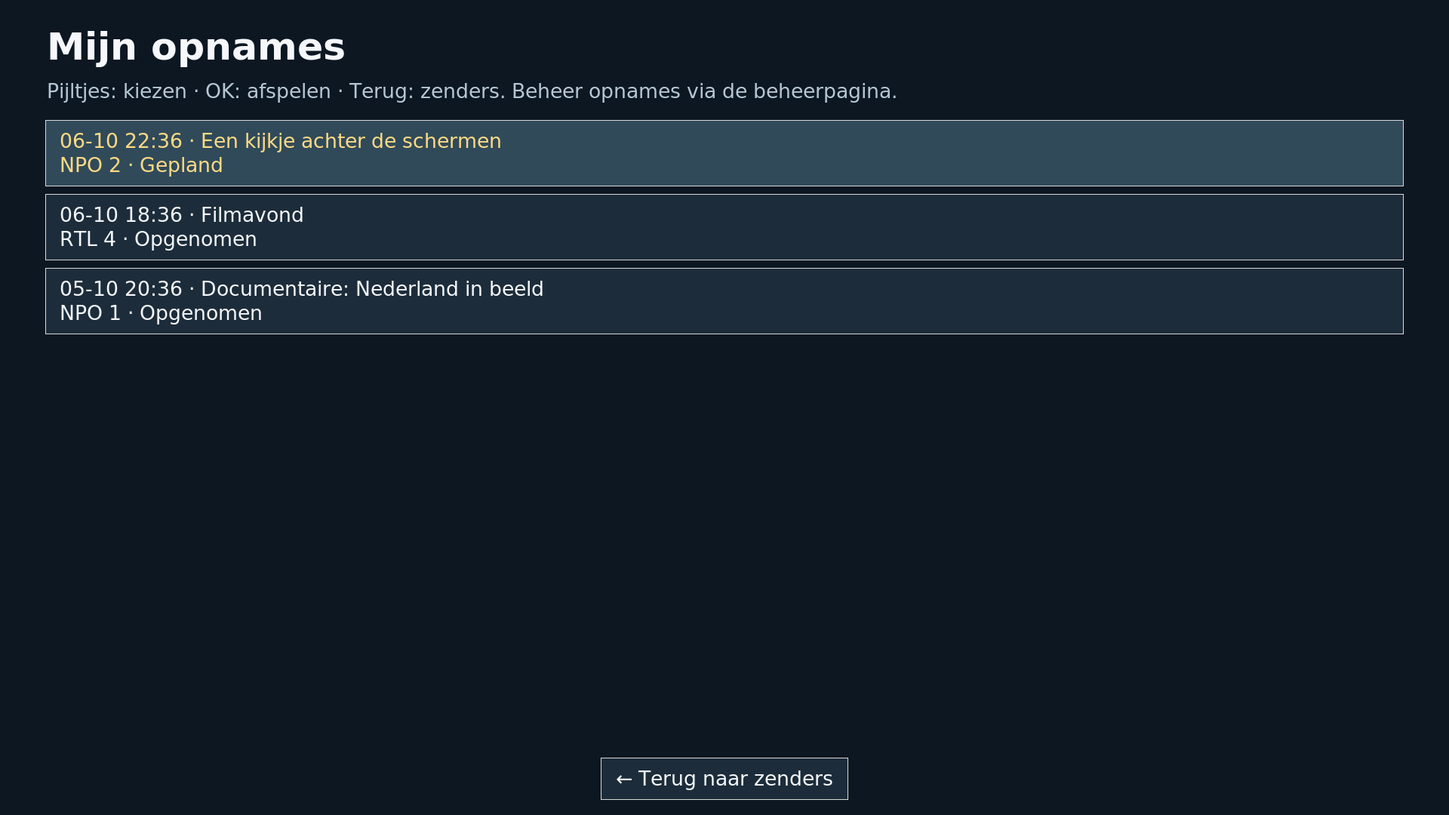
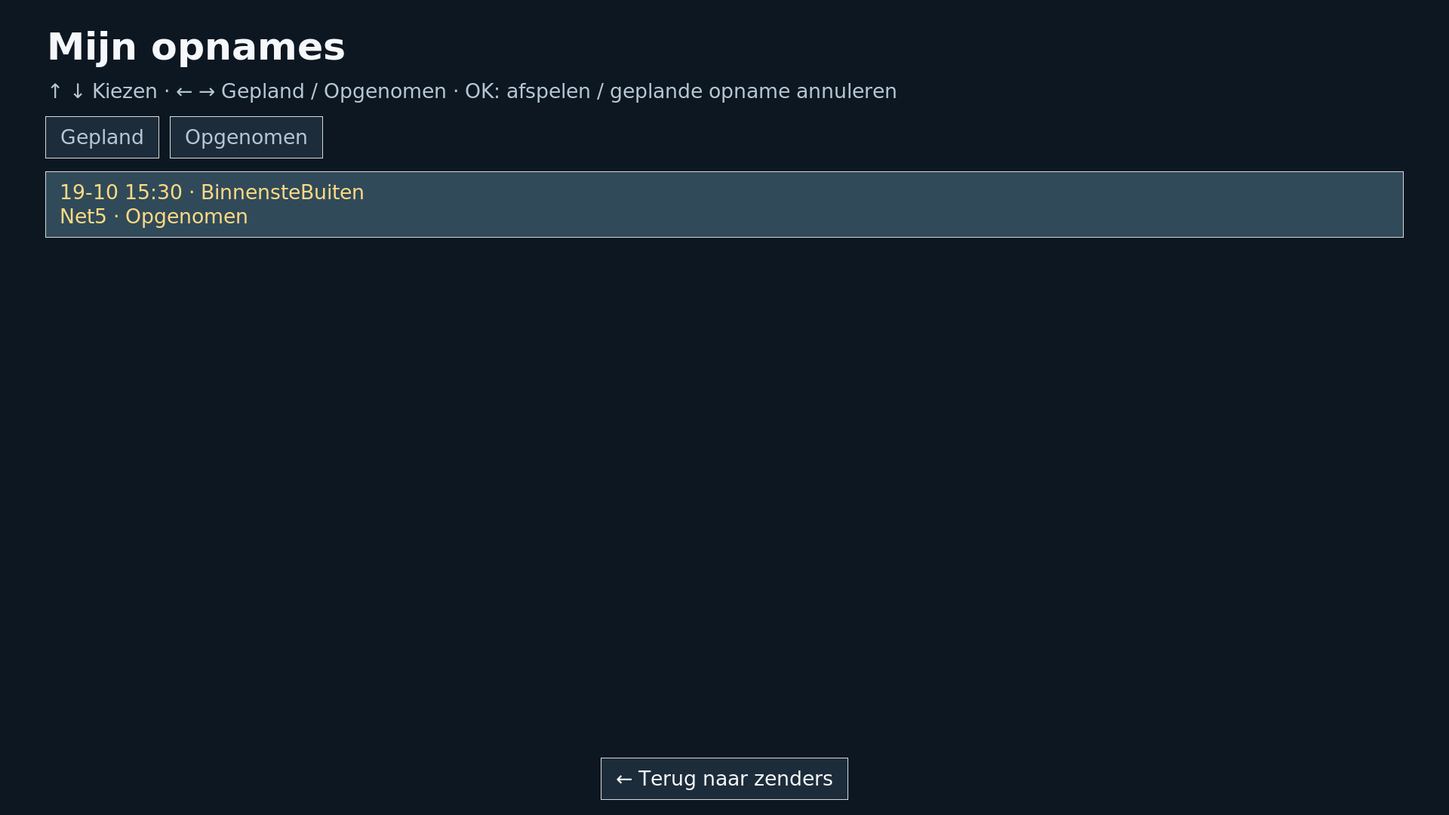
Review full README and refresh all app screenshots

Changed region(s): [[0.0312, 0.0917, 0.9688, 0.3056], [0.0312, 0.3361, 0.375, 0.3972]]

diff --git a/README.md b/README.md
@@ -4,9 +4,29 @@ Een zelfstandige Linux-tv-app met grote zenderknoppen en een aparte webbeheerpag
 
 De app draait zelfstandig met Tk en mpv onder X11. Voor Debian/Ubuntu is een Linux-installatiescript beschikbaar; voor LibreELEC Generic x86_64 is er een aparte [tv-container met Xorg en mpv](deploy/libreelec/README.md). De LibreELEC-versie is getest met HDMI-beeld en -geluid, een USB-afstandsbediening, EPG en opnames. De reguliere Docker-container biedt webbeheer en een browserpreview; live afspelen gebeurt in de zelfstandige tv-app.
 
+## Inhoud
+
+- [Screenshots](#screenshots)
+- [Functies](#functies)
+- [Installatie](#installatie)
+- [Afstandsbediening](#afstandsbediening)
+- [Beheer en gegevens](#beheer-en-gegevens)
+- [IPTV met losse inloggegevens](#iptv-met-losse-inloggegevens)
+- [HDMI-geluid op LibreELEC](#hdmi-geluid-op-libreelec)
+- [Beeldinstellingen](#beeldinstellingen)
+- [Programmagids](#programmagids-epg)
+- [Terugkijken op de tv](#terugkijken-op-de-tv)
+- [Opnemen en opslag](#opnemen-met-de-programmagids)
+- [Importgedrag](#importgedrag)
+- [Streambewaking en diagnose](#streambewaking-en-diagnose)
+- [Automatisch wisselen tussen zenderbronnen](#automatisch-wisselen-tussen-zenderbronnen)
+- [Browserontwerpen](#browserontwerpen)
+- [Ontwikkelen en testen](#ontwikkelen-en-testen)
+- [Project delen](#project-delen)
+
 ## Screenshots
 
-De screenshots tonen de tv-app en het webbeheer. Het scherm Terugkijken toont de native tv-app op 1920×1080 met providerprogrammagegevens; andere beelden bevatten ook voorbeeldprogramma's en opnames. De beschikbare logo's komen uit de zenderlijst; bij ontbrekende logo's blijft de zendernaam zichtbaar. Er staan geen provider-inloggegevens of persoonlijke beheerinstellingen in beeld.
+De screenshots tonen de tv-app en het webbeheer. De tv-beelden zijn opnieuw gemaakt met de huidige native app op 1920×1080; de beheerbeelden tonen de huidige webinterface. Zenders, programma's en opnames zijn voorbeeldgegevens. De beschikbare logo's komen uit de zenderlijst; bij ontbrekende logo's blijft de zendernaam zichtbaar. Er staan geen provider-inloggegevens of persoonlijke beheerinstellingen in beeld.
 
 ### Televisie
 
@@ -28,9 +48,11 @@ Eerdere, lopende en toekomstige uitzendingen staan in één doorlopende lijst vo
 
 ### Opnames terugkijken
 
-Een eenvoudig overzicht van geplande en opgenomen programma's.
+Met links/rechts wissel je tussen **Gepland** en **Opgenomen**. OK annuleert een plan of speelt een bewaard bestand af.
 
-![Opnameoverzicht op de tv](docs/screenshots/tv-opnames.png)
+![Geplande opnames op de tv](docs/screenshots/tv-opnames-gepland.png)
+
+![Opgenomen programma’s op de tv](docs/screenshots/tv-opnames.png)
 
 ### Zenders beheren
 
@@ -38,11 +60,17 @@ Zoek zenders, pas namen aan en sleep favorieten naar de gewenste volgorde.
 
 ![Webbeheer met zenderzoeker en versleepbare favorieten](docs/screenshots/beheer-zenders.png)
 
-### Opnames en opslag beheren
+### Opnames beheren
 
-Stel de opnamemap in, plan via de EPG en beheer bewaarde opnames.
+Plan via de EPG en beheer bewaarde opnames.
 
-![Webbeheer voor opslag, EPG-planning en opnames](docs/screenshots/beheer-opnames.png)
+![Webbeheer voor EPG-planning en opnames](docs/screenshots/beheer-opnames.png)
+
+### Opslag instellen
+
+Kies de map voor nieuwe opnames en controleer de vrije ruimte.
+
+![Webbeheer voor de opnamemap en vrije ruimte](docs/screenshots/beheer-opslag.png)
 
 ## Functies
 
@@ -62,9 +90,17 @@ Stel de opnamemap in, plan via de EPG en beheer bewaarde opnames.
 - Bij ontbrekende programmagids-ID’s bewaart de app bekende favorieten en alternatieve bronnen door zenders binnen dezelfde groep op naam te koppelen. Een gewijzigde kwaliteitsvermelding zoals FHD naar HD mag daarbij verschillen. Dubbelzinnige namen of afwijkende programmagids-ID’s worden niet automatisch gekoppeld; opgeslagen voorkeursbronnen blijven behouden.
 - Standaard uitgebreide M3U-lijsten met `#EXTINF`, HTTP(S), RTSP, RTMP en UDP. Kodi-stijl HTTP-headers na `|` worden doorgegeven aan mpv. Terugkijken ondersteunt het Xtream Codes-providerarchief wanneer het abonnement en de zender dit aanbieden. DRM, andere catch-upformaten en aanbieder-specifieke loginflows worden niet ondersteund.
 
-## Installatie op de tv-pc
+## Installatie
 
-### Lokaal testen met Docker
+Kies de installatie die bij je apparaat hoort:
+
+| Omgeving | Installatie | Video afspelen |
+| --- | --- | --- |
+| LibreELEC Generic x86_64 | [Tv-container met eigen Xorg](deploy/libreelec/README.md) | Native tv-app met mpv via HDMI |
+| Debian/Ubuntu met X11-desktop | Onderstaand Linux-installatiescript | Native tv-app met mpv |
+| Docker op een ontwikkelcomputer of server | Onderstaande Compose-configuratie | Webbeheer en browserpreview |
+
+### Webbeheer en browserpreview met Docker
 
 ```sh
 docker compose up -d --build --wait
@@ -82,18 +118,20 @@ Een Docker-beheerwachtwoord wijzigen: `docker compose stop app`, daarna `docker 
 Gebruik Debian/Ubuntu met een lichte desktop, bijvoorbeeld XFCE, en een **X11/Xorg-sessie**. De speler wordt ingebed met een X11-venster-ID; native Wayland is niet het ondersteunde pad. Zie de [mpv-documentatie](https://mpv.io/manual/stable/#options-wid).
 
 ```sh
-git clone <URL-VAN-JE-REPOSITORY>
+git clone https://github.com/MrHymanz/IPTV-thuis.git
 cd IPTV-thuis
 sh tools/install-linux.sh
 ~/.local/bin/iptv-thuis
 ```
 
-Het script installeert `python3-tk`, `mpv` en lettertypen met sudo, kopieert de app naar de gebruikersmap en maakt een desktop-autostart-item. Voer het uit als de tv-gebruiker. Stel **automatisch aanmelden** voor die gebruiker in via de desktopinstellingen. Schakel daar ook schermvergrendeling en automatisch slapen uit. Daarna opent de app bij het aanmelden op volledig scherm het zenderoverzicht. De app verandert geen aanmeldinstellingen of schijven.
+Het script installeert Python, Tk, Pillow, mpv en lettertypen met sudo, kopieert de app naar de gebruikersmap en maakt een desktop-autostart-item. Voer het uit als de tv-gebruiker. Stel **automatisch aanmelden** voor die gebruiker in via de desktopinstellingen. Schakel daar ook schermvergrendeling en automatisch slapen uit. Daarna opent de app bij het aanmelden op volledig scherm het zenderoverzicht. De app verandert geen aanmeldinstellingen of schijven.
+
+Voor opnemen is ook FFmpeg nodig: installeer dat op Debian/Ubuntu met `sudo apt-get install ffmpeg`. De LibreELEC-tv-container bevat FFmpeg al.
 
 Handmatig starten zonder installatiescript:
 
 ```sh
-sudo apt-get install python3 python3-tk python3-pil python3-pil.imagetk mpv fonts-dejavu-core
+sudo apt-get install python3 python3-tk python3-pil python3-pil.imagetk mpv ffmpeg fonts-dejavu-core
 python3 -m mijntv
 ```
 
@@ -103,23 +141,28 @@ Het tv-scherm toont rechtsboven een schijficoon met de vrije ruimte van de inges
 
 ## Afstandsbediening
 
-| Knop/toets | Zenderoverzicht | Tijdens kijken |
+| Knop/toets | Zenderoverzicht | Tijdens live kijken |
 | --- | --- | --- |
-| Pijltjes | Zender kiezen | Volgende/vorige favoriet |
-| OK / Enter / spatie | Zender starten | Zendernaam tonen |
+| Pijltjes | Zender kiezen; links vanuit de eerste kolom opent het menu | Rechts/omhoog: volgende favoriet; links/omlaag: vorige |
+| OK / Enter / spatie | Zender starten | Zendernaam en programmagegevens tonen |
+| Menu / F2 / O | Zijmenu openen of sluiten | Zijmenu openen of sluiten |
 | CH+ / PageDown | Volgende pagina | Vorige favoriet |
 | CH− / PageUp | Vorige pagina | Volgende favoriet |
 | Terug / Escape / Backspace | In overzicht blijven | Stoppen en zenderlijst openen |
 | F11 | Volledig scherm wisselen | Volledig scherm wisselen |
 | Ctrl+Q | App afsluiten | App afsluiten |
 
+In de zijbalk sluit **links** het menu. In **Terugkijken** bladert omhoog/omlaag door programma’s en voert OK de getoonde actie uit. Tijdens het afspelen van een opgeslagen opname of archiefuitzending zijn links/rechts de spoelknoppen en pauzeert OK; zie [Terugkijken op de tv](#terugkijken-op-de-tv).
+
 Een USB 2,4GHz-ontvanger die zich als toetsenbord presenteert kan deze toetsen rechtstreeks sturen. CH-knoppen kunnen andere codes sturen; controleer ze op de tv-pc met bijvoorbeeld `xev` en pas indien nodig `TV.key` in `mijntv/tv.py` aan. Volume + en − (XF86AudioRaiseVolume/XF86AudioLowerVolume) wijzigen het spelervolume met 5%, met een korte melding in beeld. De instelling blijft bewaard bij zappen en herstart. De mute-knop schakelt het geluid uit of aan; volume aanpassen heft mute op. Het volume van de tv zelf blijft apart instelbaar.
 
 ## Beheer en gegevens
 
+De beheerpagina is verdeeld in zes openklapbare onderdelen: IPTV-gegevens, Zenders en favorieten, Beeldinstellingen, Opnames, Opslag en Opnameaccount. Er staat één onderdeel tegelijk open; de browser onthoudt de laatst geopende sectie. Lange zender- en opnamelijsten hebben een eigen scrollvak. Bij het slepen van favorieten scrollt de lijst mee.
+
 De beheerbackend gebruikt alleen de Python-standaardbibliotheek. De tv-interface gebruikt Tk en Pillow voor zenderlogo’s; het Linux-installatiescript en de LibreELEC-tv-container installeren die onderdelen. Standaard staat alle configuratie in `~/.local/share/iptv-thuis/`, buiten de repository:
 
-- `mijntv.db`: zenders, streamadressen, favorieten en het opgeslagen M3U-adres.
+- `mijntv.db`: zenders, streamadressen, favorieten, providerinstellingen, EPG, archiefmetadata en opnameplanning.
 - `admin.json`: gezouten PBKDF2-hash van het beheerwachtwoord.
 - `first-login.txt`: eerste wachtwoord om na een onbeheerde herstart te kunnen inloggen. Bewaar het in je wachtwoordmanager en verwijder dit bestand daarna desgewenst. De app toont dit wachtwoord alleen zolang er geen favorieten zijn.
 
@@ -151,13 +194,17 @@ De tv-container kiest automatisch het HDMI-audioapparaat waaraan ALSA de aangesl
 
 ## Beeldinstellingen
 
-In het webbeheer onder **Beeldinstellingen** kies je automatisch, 720p, 1080p of 4K UHD (3840×2160). De zelfstandige X11-app biedt alleen resoluties aan die het aangesloten scherm meldt. De verversingssnelheid wordt door Xorg gekozen; op de AOpen DE7200 is 4K via deze HDMI-aansluiting maximaal 30 Hz. Opslaan stopt een lopende uitzending en heropent het zenderoverzicht binnen enkele seconden. De keuze blijft bewaard na herstart. Een opname van het geteste [4K-scherm](docs/tv-4k.png) staat in de documentatie. Als een ander scherm de ingestelde resolutie niet ondersteunt, blijft het huidige beeld behouden.
+In het webbeheer onder **Beeldinstellingen** kies je automatisch, 720p, 1080p of 4K UHD (3840×2160). De zelfstandige X11-app biedt alleen resoluties aan die het aangesloten scherm meldt. Je kunt ook een ondersteunde verversingssnelheid kiezen; **Automatisch** volgt de schermvoorkeur. Op de AOpen DE7200 is 4K via deze HDMI-aansluiting maximaal 30 Hz. Opslaan stopt een lopende uitzending en heropent het zenderoverzicht binnen enkele seconden. De keuze blijft bewaard na herstart. Als een ander scherm de ingestelde resolutie niet ondersteunt, blijft het huidige beeld behouden.
 
 Met **Beeldmarge** (0–10% aan elke rand) plaats je de hele interface en video verder van de tv-randen. Dit helpt bij overscan. De tv-instelling voor volledig beeld, vaak ‘Just Scan’, ‘Screen Fit’ of ‘1:1’, kan de afgesneden randen ook verhelpen. De Docker-browserpreview verandert geen HDMI-resolutie: instellingen daar gelden voor een zelfstandige app die dezelfde gegevensmap gebruikt. Voor LibreELEC stel je dit in op de beheerpagina van de mediacenter-pc zelf.
 
+In Beeldinstellingen kies je automatische hardwaredecodering of softwaredecodering en kun je de kleine FPS-teller linksboven aan- of uitzetten. Deze voorkeuren worden opgeslagen en gelden ook na herstarten. De teller toont de geschatte videoframerate uit de videotimestamps, de schermfrequentie in Hz en het cumulatieve aantal door de uitvoer overgeslagen frames sinds het laden van de stream. De videoframerate is geen directe meting van het aantal fysiek getoonde frames.
+
+Beeldinstellingen bewaren ook de verversingssnelheid (Hz). Kies bijvoorbeeld 1080p met 50 Hz voor video van 25/50 fps. Alleen combinaties die het aangesloten scherm aanbiedt zijn selecteerbaar. Bij een vaste Hz kies je een vaste resolutie; Automatisch volgt de voorkeur van het scherm. Een na herstart niet meer ondersteunde combinatie laat het bestaande schermsignaal behouden en geeft een melding in beheer.
+
 ## Programmagids (EPG)
 
-Bij Xtream Codes-inloggegevens haalt de app automatisch de XMLTV-gids van de aanbieder op, bij de eerste start en daarna elke vier uur. In het zenderoverzicht zie je **Nu** en **Straks** voor de geselecteerde zender. Tijdens kijken verschijnt dezelfde informatie bij zappen of een druk op OK. De tijden volgen de lokale tijdzone van de tv-pc.
+Bij Xtream Codes-inloggegevens haalt de app automatisch de XMLTV-gids van de aanbieder op, na de opstartwachttijd en daarna elke vier uur. In het zenderoverzicht zie je **Nu** en **Straks** voor de geselecteerde zender. Tijdens kijken verschijnt dezelfde informatie bij zappen of een druk op OK. De tijden in het zenderoverzicht volgen de lokale tijdzone van de tv-pc. Stel die voor gebruik in Nederland in op `Europe/Amsterdam`.
 
 Via **Programmagids vernieuwen** in het webbeheer kun je direct opnieuw ophalen. Alleen programma’s van de favorieten worden lokaal opgeslagen; koppeling gebeurt op de `tvg-id` uit de playlist, zodat hernoemen blijft werken. Wijzigingen in de favorieten worden automatisch meegenomen. Ontbrekende programmagegevens worden aangegeven zonder het afspelen te blokkeren. Bij een mislukte download blijft de vorige gids bewaard. XMLTV en gecomprimeerde XMLTV worden ondersteund, met een limiet van 512 MB na uitpakken. De app gebruikt de opgeslagen providergegevens; er zijn geen extra inlogvelden nodig.
 
@@ -181,9 +228,27 @@ Tijdens archiefweergave en het afspelen van een opname pauzeert OK. Eén druk op
 
 De app gebruikt de opgeslagen Xtream Codes-inloggegevens voor het providerarchief en aanvullende programmagegevens. Een alleen geüpload M3U-bestand levert deze API-gegevens niet. Beschikbaarheid en archiefduur verschillen per abonnement en zender. De controle van 19 oktober 2026 vond bij het geteste abonnement 70 Nederlandse bronvarianten met drie dagen archief; dit is geen vaste garantie voor iedere zender of provider. Zie de [providercontrole](docs/catchup-controle.md).
 
-Als de favoriete livebron geen archief aanbiedt, zoekt de app een passende archiefvariant van die zender. De opgeslagen voorkeur voor live kijken blijft behouden. Programmagegevens worden op de achtergrond opgehaald en lokaal bewaard; bij een providerstoring blijven beschikbare opgeslagen gegevens en de lokale EPG bruikbaar. Ontbrekende omschrijvingen blokkeren de bediening niet. De nieuwe gids toont tijden in de Nederlandse tijdzone (`Europe/Amsterdam`).
+Als de favoriete livebron geen archief aanbiedt, zoekt de app een passende archiefvariant van die zender. De opgeslagen voorkeur voor live kijken blijft behouden. Programmagegevens worden op de achtergrond opgehaald en lokaal bewaard; bij een providerstoring blijven beschikbare opgeslagen gegevens en de lokale EPG bruikbaar. Ontbrekende omschrijvingen blokkeren de bediening niet. De gids Terugkijken toont tijden in de Nederlandse tijdzone (`Europe/Amsterdam`).
 
 Bij opnemen via het kijkaccount heeft de opname voorrang. Archiefweergave is geblokkeerd zolang die opname loopt. Begint een geplande opname tijdens archiefweergave, dan stopt eerst de archiefstream zodat de recorder de providerverbinding kan gebruiken. Met een afzonderlijk opnameaccount kan de archiefweergave doorgaan. Een providerarchief is geen lokale opname: alleen zelf opgenomen bestanden blijven na het verlopen van het archief beschikbaar.
+
+## Opnemen met de programmagids
+
+Open op de **mediacenter-pc** `/admin`, openklapbaar onderdeel **Opslag**. De standaardmap op LibreELEC is `/storage/iptv-thuis/recordings`. Je kunt een andere schrijfbare map onder `/storage` of op een aangekoppelde schijf onder `/var/media/<schijf>` kiezen. De bovenliggende map moet bestaan. Een NAS kan ook worden gebruikt wanneer deze vooraf op de host is aangekoppeld en in de container beschikbaar is. De app koppelt geen netwerkschijven aan. Een verdwenen externe schijf geeft een fout; de app schrijft dan niet naar het achtergebleven lege aankoppelpunt.
+
+Het schijficoon op de tv en de browserpreview toont de vrije ruimte van de ingestelde opnamemap. Een gewijzigde locatie geldt voor nieuwe opnames: bestaande bestanden en reeds geplande opnames houden hun oorspronkelijke map. Er wordt niets automatisch verplaatst. De Docker-testserver heeft zijn eigen opslag en instellingen. Standaard gebruikt deze `/data/recordings` in het bestaande gegevensvolume. Voor een andere Docker-opslag voeg je een schrijfbare bind mount toe aan `compose.yaml`, bijvoorbeeld `- /srv/tv-recordings:/recordings`; geef UID 10001 schrijfrechten en stel `/recordings` in via beheer.
+
+Kies in het beheer een favoriete zender en open de programmagids. **Opnemen** plant de opname vanaf de begintijd van het EPG-programma tot vijf minuten na de eindtijd. Bij een lopend programma wordt alleen het resterende deel opgenomen; er is geen terugkijkbuffer. **Huidig programma opnemen** gebruikt de eindtijd uit de EPG, of neemt één uur op wanneer programmagegevens ontbreken. Eén opname tegelijk: overlappende plannen worden geweigerd. De pc moet aan blijven. Geplande opnames blijven in SQLite bewaard, starten ook na een herstart wanneer het programma nog loopt, en krijgen een foutstatus wanneer het volledige tijdvak is gemist. Een tijdens herstart actieve opname krijgt de status Onderbroken; het gedeeltelijke bestand blijft bewaard, maar wordt niet automatisch hervat.
+
+Op de tv opent **Menu** (of F2/O) het zijmenu. Vanuit de eerste kolom van de zenderlijst opent **links** dit ook. Kies **Zenders**, **Opnames** of **Terugkijken** met omhoog/omlaag en OK. **Links**, **Terug** of opnieuw **Menu** sluit de zijbalk met behoud van zender en pagina. Tijdens afspelen blijft de video doorlopen zolang je alleen de zijbalk opent. Zie [Terugkijken op de tv](#terugkijken-op-de-tv) voor opnemen en afspelen met de OK-knop. Via beheer kun je plannen annuleren, lopende opnames stoppen, bestanden downloaden en oude opnames definitief verwijderen. Op een toetsenbord blijft R als extra opnamesneltoets beschikbaar.
+
+Zonder apart opnameaccount blijft een opname vast op de gekozen zender. Bij zappen verschijnt **Blijven kijken / Opname stoppen en zappen**, met Blijven kijken als veilige standaard. Het opgenomen deel blijft na stoppen bewaard. Vanuit het homescherm blijft de opname doorlopen; dezelfde zender opnieuw bekijken deelt weer de bestaande verbinding. Als een geplande opname begint terwijl je een andere zender kijkt, schakelt de speler naar de opnamezender en toont een melding. De speler start tijdens een gedeelde opname geen onafhankelijke bronwissel; bij opnameherstel volgen speler en recorder samen de nieuwe bron.
+
+In **Opnameaccount** kun je een tweede M3U-adres of afzonderlijke Xtream-inloggegevens opslaan. De opname gebruikt dan het tweede account en je kunt vrij zappen met het kijkaccount. Een tweede URL van hetzelfde account telt niet als extra verbinding. Zenders worden op programmagids-ID en unieke naam binnen dezelfde groep gekoppeld; een ontbrekende of dubbelzinnige opnamebron geeft een fout en valt nooit stilzwijgend terug op het kijkaccount. Voeg eerst favorieten toe en ververs de opname-ingang na het toevoegen van favorieten uit nieuwe groepen. De opname-ingang wordt verder iedere zes uur op de achtergrond vernieuwd, na de opstartwachttijd; mislukte updates behouden de vorige lijst. Er blijft maximaal één opname tegelijk mogelijk.
+
+De recorder gebruikt FFmpeg met `-c copy`: video en audio worden zonder hercodering in een `.ts`-bestand opgeslagen, met een lage CPU-belasting. Elke nieuwe opname krijgt vijf minuten uitloop na de eindtijd, ook bij handmatige opnames. De begintijd blijft gelijk; de opnamelijst toont de eindtijd inclusief uitloop. Herstelde delen behouden diezelfde eindtijd en krijgen niet opnieuw vijf minuten extra. De conflictcontrole telt de uitloop mee, omdat er één opname tegelijk mogelijk is. De planner controleert elke twee seconden de opslag. Bij minder dan 512 MiB vrije ruimte stopt de opname met een foutstatus; gedeeltelijke bestanden blijven beschikbaar. Bij een vroegtijdig gesloten stream blijft het bestand behouden en hervat de recorder automatisch in een volgend deel, met oplopende wachttijd en maximaal vijf herstelpogingen per tien minuten. Bij een weggevallen gedeelde bron kan ook een andere gekoppelde bron worden gebruikt; speler en recorder delen de herstelde verbinding. De opname blijft tijdens herstel tegen onbedoeld zappen beschermd. Bij bewust stoppen, volle of verdwenen opslag en het bereiken van de eindtijd wordt niet automatisch hervat. Via het webbeheer kun je een onderbroken of mislukte opname handmatig hervatten zolang het programma nog loopt. HTTP(S)-streams worden ondersteund. De lokale tv-speler en recorder delen één inkomende providerverbinding via een uitsluitend op loopback bereikbare streamverdeler. Interface-elementen, EPG-meldingen en waarschuwingen worden niet opgenomen. HLS wordt zo nodig zonder hercodering naar MPEG-TS omgezet; HLS met aanvullende M3U-headeropties wordt nog niet ondersteund. EPG-tijden komen van je provider en kunnen afwijken van de uitzending.
+
+Streamadressen staan niet in opname-API-antwoorden, logs of FFmpeg-procesargumenten. FFmpeg leest het adres uit een tijdelijk manifest met rechten 0600, dat na afloop wordt verwijderd. Deel geen gegevensvolume of opnames wanneer je alleen de broncode wilt delen. Bronarchieven bevatten uitsluitend door Git gevolgde projectbestanden.
 
 ## Importgedrag
 
@@ -192,46 +257,6 @@ Zenderidentiteit wordt afgeleid van `tvg-id`, oorspronkelijke naam, groep en het
 Playlists mogen maximaal **512 MB** zijn, zowel via een download als een bestandsupload. Downloads en uploads worden in blokken naar een tijdelijk bestand in de gegevensmap geschreven en vervolgens regel voor regel in SQLite verwerkt. De volledige playlist en zendercatalogus worden niet tegelijk in het geheugen geladen. Het tijdelijke bestand wordt ook bij fouten opgeruimd; zorg dat de gegevensmap voldoende vrije schijfruimte heeft voor de playlist en database.
 
 Een ongeldige, onderbroken of mislukte import laat de oude lijst intact. Bij starten worden achtergelaten tijdelijke importtabellen op de achtergrond opgeruimd voordat een nieuwe automatische import begint. De import houdt één schrijvende databaseverbinding open, met 32 MB SQLite-cache en commits per duizend zenders. De unieke zender-ID-index wordt na het inlezen in één keer opgebouwd. Dit beperkt willekeurige schijfbewerkingen en voorkomt herhaalde WAL-checkpoints bij het sluiten van elke batch op een mechanische schijf. Alleen de vervangbare import en opruiming gebruiken SQLite `synchronous=NORMAL`; bewerkingen van favorieten behouden de standaard synchronisatie. De nieuwe catalogus wordt in een aparte tabel opgebouwd met korte transacties per duizend zenders. Favorieten blijven daardoor tijdens grote imports te bewerken. Pas na volledige verwerking wordt de catalogus in één transactie omgewisseld. Zoekresultaten worden per honderd opgehaald, zodat de beheerpagina niet alle zenders tegelijk hoeft te tekenen. Handmatige streams blijven bij import bestaan.
-
-## Ontwikkelen en testen
-
-```sh
-python3 -m unittest discover -s tests -v
-python3 -m compileall -q mijntv tools tests
-sh -n tools/install-linux.sh
-python3 tools/build.py
-```
-
-De native schermtests vereisen X11 (of Xvfb) en tkinter; de videoproeven gebruiken ook mpv en ffmpeg. Zonder die omgeving worden de bijbehorende tests overgeslagen. De gidscontroles testen onder meer Full HD-indeling, stabiele beschrijvingen, navigatie, opnemen via OK en opnamevoorrang. Een afbeelding van het geteste tv-scherm staat in `docs/tv-scherm.png`.
-
-Het bouwscript maakt `dist/IPTV-thuis-0.1.0.zip` met bronbestanden, documentatie, tests en de klikbare mockup. `index.html` is die mockup, geen browser-speler van de echte M3U. Hij ondersteunt ook direct zappen op het voorbeeldscherm.
-
-Controleer voor dagelijks gebruik op de tv-pc: koude boot, HDMI-geluid, vijf echte streams, herhaald zappen, Terug, alle afstandsbedieningsknoppen, netwerkverlies en herstel, en beheer vanaf een tweede apparaat.
-
-## Project delen
-
-Gebruik de broncode uit Git of het archief uit `python3 tools/build.py`. Het archief bevat uitsluitend de door Git bijgehouden projectbestanden, zonder `.git`, lokale instellingen of Git-remotes. Lokale databases, playlists, beheerwachtwoorden en SSH-sleutels worden uitgesloten met `.gitignore`. De tests gebruiken fictieve inloggegevens en voorbeeldadressen. De screenshots tonen alleen de interface en zenderlogo’s.
-
-De Docker-volumes en de gegevensmap van de tv-pc bevatten wel de echte providergegevens en beheerconfiguratie; deel die niet mee als broncode. `.gitignore` verwijdert niets dat eerder gecommit is, en beschermt niet tegen geheimen die je in een bronbestand schrijft. De Git-geschiedenis kan nog een oud lokaal repository-adres bevatten. Het bronarchief bevat die geschiedenis niet.
-
-
-## Opnemen met de programmagids
-
-Open op de **mediacenter-pc** `/admin`, openklapbaar onderdeel **Opslag**. De standaardmap op LibreELEC is `/storage/iptv-thuis/recordings`. Je kunt een andere schrijfbare map onder `/storage` of op een aangekoppelde schijf onder `/var/media/<schijf>` kiezen. De bovenliggende map moet bestaan. Een NAS kan ook worden gebruikt wanneer deze vooraf op de host is aangekoppeld en in de container beschikbaar is. De app koppelt geen netwerkschijven aan. Een verdwenen externe schijf geeft een fout; de app schrijft dan niet naar het achtergebleven lege aankoppelpunt.
-
-Het schijficoon op de tv en de browserpreview toont de vrije ruimte van de ingestelde opnamemap. Een gewijzigde locatie geldt voor nieuwe opnames: bestaande bestanden en reeds geplande opnames houden hun oorspronkelijke map. Er wordt niets automatisch verplaatst. De Docker-testserver heeft zijn eigen opslag en instellingen. Standaard gebruikt deze `/data/recordings` in het bestaande gegevensvolume. Voor een andere Docker-opslag voeg je een schrijfbare bind mount toe aan `compose.yaml`, bijvoorbeeld `- /srv/tv-recordings:/recordings`; geef UID 10001 schrijfrechten en stel `/recordings` in via beheer.
-
-Kies in het beheer een favoriete zender en open de programmagids. **Opnemen** plant precies de begin- en eindtijd van het EPG-programma. Bij een lopend programma wordt alleen het resterende deel opgenomen; er is geen terugkijkbuffer. **Huidig programma opnemen** gebruikt de eindtijd uit de EPG, of neemt één uur op wanneer programmagegevens ontbreken. Eén opname tegelijk: overlappende plannen worden geweigerd. De pc moet aan blijven. Geplande opnames blijven in SQLite bewaard, starten ook na een herstart wanneer het programma nog loopt, en krijgen een foutstatus wanneer het volledige tijdvak is gemist. Een tijdens herstart actieve opname krijgt de status Onderbroken; het gedeeltelijke bestand blijft bewaard, maar wordt niet automatisch hervat.
-
-Op de tv opent **Menu** (of F2/O) het zijmenu. Vanuit de eerste kolom van de zenderlijst opent **links** dit ook. Kies **Zenders**, **Opnames** of **Terugkijken** met omhoog/omlaag en OK. **Links**, **Terug** of opnieuw **Menu** sluit de zijbalk met behoud van zender en pagina. Tijdens afspelen blijft de video doorlopen zolang je alleen de zijbalk opent. Zie [Terugkijken op de tv](#terugkijken-op-de-tv) voor opnemen en afspelen met de OK-knop. Via beheer kun je plannen annuleren, lopende opnames stoppen, bestanden downloaden en oude opnames definitief verwijderen. Op een toetsenbord blijft R als extra opnamesneltoets beschikbaar.
-
-Zonder apart opnameaccount blijft een opname vast op de gekozen zender. Bij zappen verschijnt **Blijven kijken / Opname stoppen en zappen**, met Blijven kijken als veilige standaard. Het opgenomen deel blijft na stoppen bewaard. Vanuit het homescherm blijft de opname doorlopen; dezelfde zender opnieuw bekijken deelt weer de bestaande verbinding. Als een geplande opname begint terwijl je een andere zender kijkt, schakelt de speler naar de opnamezender en toont een melding. De speler start tijdens een gedeelde opname geen onafhankelijke bronwissel; bij opnameherstel volgen speler en recorder samen de nieuwe bron.
-
-In **Opnameaccount** kun je een tweede M3U-adres of afzonderlijke Xtream-inloggegevens opslaan. De opname gebruikt dan het tweede account en je kunt vrij zappen met het kijkaccount. Een tweede URL van hetzelfde account telt niet als extra verbinding. Zenders worden op programmagids-ID en unieke naam binnen dezelfde groep gekoppeld; een ontbrekende of dubbelzinnige opnamebron geeft een fout en valt nooit stilzwijgend terug op het kijkaccount. Voeg eerst favorieten toe en ververs de opname-ingang na het toevoegen van favorieten uit nieuwe groepen. De opname-ingang wordt verder iedere zes uur op de achtergrond vernieuwd, na de opstartwachttijd; mislukte updates behouden de vorige lijst. Er blijft maximaal één opname tegelijk mogelijk.
-
-De recorder gebruikt FFmpeg met `-c copy`: video en audio worden zonder hercodering in een `.ts`-bestand opgeslagen, met een lage CPU-belasting. Elke nieuwe opname krijgt vijf minuten uitloop na de eindtijd, ook bij handmatige opnames. De begintijd blijft gelijk; de opnamelijst toont de eindtijd inclusief uitloop. Herstelde delen behouden diezelfde eindtijd en krijgen niet opnieuw vijf minuten extra. De conflictcontrole telt de uitloop mee, omdat er één opname tegelijk mogelijk is. De planner controleert elke twee seconden de opslag. Bij minder dan 512 MiB vrije ruimte stopt de opname met een foutstatus; gedeeltelijke bestanden blijven beschikbaar. Bij een vroegtijdig gesloten stream blijft het bestand behouden en hervat de recorder automatisch in een volgend deel, met oplopende wachttijd en maximaal vijf herstelpogingen per tien minuten. Bij een weggevallen gedeelde bron kan ook een andere gekoppelde bron worden gebruikt; speler en recorder delen de herstelde verbinding. De opname blijft tijdens herstel tegen onbedoeld zappen beschermd. Bij bewust stoppen, volle of verdwenen opslag en het bereiken van de eindtijd wordt niet automatisch hervat. Vanuit Opnames kun je een onderbroken of mislukte opname ook handmatig hervatten zolang het programma nog loopt. HTTP(S)-streams worden ondersteund. De lokale tv-speler en recorder delen één inkomende providerverbinding via een uitsluitend op loopback bereikbare streamverdeler. Interface-elementen, EPG-meldingen en waarschuwingen worden niet opgenomen. HLS wordt zo nodig zonder hercodering naar MPEG-TS omgezet; HLS met aanvullende M3U-headeropties wordt nog niet ondersteund. EPG-tijden komen van je provider en kunnen afwijken van de uitzending.
-
-Streamadressen staan niet in opname-API-antwoorden, logs of FFmpeg-procesargumenten. FFmpeg leest het adres uit een tijdelijk manifest met rechten 0600, dat na afloop wordt verwijderd. Deel geen gegevensvolume of opnames wanneer je alleen de broncode wilt delen. Bronarchieven bevatten uitsluitend door Git gevolgde projectbestanden.
 
 ## Streambewaking en diagnose
 
@@ -251,18 +276,35 @@ Live tv controleert iedere tien seconden een gedecodeerd videoframe met Pillow (
 
 Bij snel achter elkaar zappen verandert de geselecteerde zender direct. Pas na 350 ms zonder nieuwe zapdruk wordt de laatst gekozen stream geladen. Het opstarten van mpv gebeurt op de achtergrond, zodat de bediening tijdens het verbinden beschikbaar blijft. Tussentijdse zenders worden niet gestart en oude laadtimeouts worden bij een nieuwe keuze ingetrokken.
 
-In Beeldinstellingen kies je automatische hardwaredecodering of softwaredecodering en kun je de kleine FPS-teller linksboven aan- of uitzetten. Deze voorkeuren worden opgeslagen en gelden ook na herstarten. De teller toont de geschatte videoframerate uit de videotimestamps, de schermfrequentie in Hz en het cumulatieve aantal door de uitvoer overgeslagen frames sinds het laden van de stream. De videoframerate is geen directe meting van het aantal fysiek getoonde frames.
-
-Beeldinstellingen bewaren ook de verversingssnelheid (Hz). Kies bijvoorbeeld 1080p met 50 Hz voor video van 25/50 fps. Alleen combinaties die het aangesloten scherm aanbiedt zijn selecteerbaar. Bij een vaste Hz kies je een vaste resolutie; Automatisch volgt de voorkeur van het scherm. Een na herstart niet meer ondersteunde combinatie laat het bestaande schermsignaal behouden en geeft een melding in beheer.
-
 Na het starten van de app wachten automatische EPG-updates, zenderlijstupdates en catalogusonderhoud drie minuten. De bestaande lijst en gids blijven direct bruikbaar. De EPG-controle zoekt alleen de opgeslagen favorieten op; een groepenindex voorkomt volledige tabelscans in webbeheer. De index voor een bestaande catalogus wordt pas na die wachttijd aangelegd en blijft bewaard. Handmatig vernieuwen via beheer blijft direct mogelijk.
 
-De beheerpagina is verdeeld in zes openklapbare onderdelen: IPTV-gegevens, Zenders en favorieten, Beeldinstellingen, Opnames, Opslag en Opnameaccount. Er staat één onderdeel tegelijk open; de browser onthoudt de laatst geopende sectie. Lange zender- en opnamelijsten hebben een eigen scrollvak. Bij het slepen van favorieten scrollt de lijst mee.
+## Browserontwerpen
 
 ### Mobiele frontend-mockup
 
-Open `/mobile` op het beheeradres, bijvoorbeeld `http://192.168.1.40:8090/mobile`, in Safari op je iPhone. Log in met je bestaande beheeraccount. De mobiele mockup heeft een startscherm, doorzoekbare zenders, opnames, een programmagids en een gesimuleerde speler. De inhoud is voorbeelddata; plannen en afspelen wijzigen geen echte opnames. De speler springt 15 seconden per tik en bij langer vasthouden maximaal 30 seconden per stap. De pagina ondersteunt de veilige schermranden van de iPhone en werkt ook op desktop.
+Open `/mobile` op het beheeradres, bijvoorbeeld `http://IP-VAN-DOCKER-HOST:8090/mobile`, in Safari op je iPhone. Log in met je bestaande beheeraccount. De mobiele mockup heeft een startscherm, doorzoekbare zenders, opnames, een programmagids en een gesimuleerde speler. De inhoud is voorbeelddata; plannen en afspelen wijzigen geen echte opnames. De speler springt 15 seconden per tik en bij langer vasthouden maximaal 30 seconden per stap. De pagina ondersteunt de veilige schermranden van de iPhone en werkt ook op desktop.
 
 ### Catch-upmockup in de browser
 
 Open `/catchup` op het beheeradres voor het interactieve browserontwerp. Dit voorbeeld gebruikt de gecontroleerde bronlijst, voorbeeldprogramma’s en een gesimuleerde speler. De gids is één doorlopende lijst voor de vanuit het hoofdmenu geselecteerde zender. Omhoog/omlaag bladert; OK kijkt terug, neemt het resterende deel op of plant een toekomstige opname. Opnames toont Gepland en Opgenomen. Afspelen, plannen, annuleren en overlapdetectie zijn hier gesimuleerd en wijzigen geen echte opnames. De werkende uitvoering staat in de [native tv-app](#terugkijken-op-de-tv).
+
+## Ontwikkelen en testen
+
+```sh
+python3 -m unittest discover -s tests -v
+python3 -m compileall -q mijntv tools tests
+sh -n tools/install-linux.sh
+python3 tools/build.py
+```
+
+De native schermtests vereisen X11 (of Xvfb) en tkinter; de videoproeven gebruiken ook mpv en ffmpeg. Zonder die omgeving worden de bijbehorende tests overgeslagen. De gidscontroles testen onder meer Full HD-indeling, stabiele beschrijvingen, navigatie, opnemen via OK en opnamevoorrang.
+
+Het bouwscript maakt `dist/IPTV-thuis-0.1.0.zip` met bronbestanden, documentatie, tests en de klikbare mockup. `index.html` is die mockup, geen browser-speler van de echte M3U. Hij ondersteunt ook direct zappen op het voorbeeldscherm.
+
+Controleer voor dagelijks gebruik op de tv-pc: koude boot, HDMI-geluid, vijf echte streams, herhaald zappen, Terug, alle afstandsbedieningsknoppen, netwerkverlies en herstel, en beheer vanaf een tweede apparaat.
+
+## Project delen
+
+Gebruik de broncode uit Git of het archief uit `python3 tools/build.py`. Het archief bevat uitsluitend de door Git bijgehouden projectbestanden, zonder `.git`, lokale instellingen of Git-remotes. Lokale databases, playlists, beheerwachtwoorden en SSH-sleutels worden uitgesloten met `.gitignore`. De tests gebruiken fictieve inloggegevens en voorbeeldadressen. De README-screenshots tonen de huidige interface met voorbeeldgegevens, zonder provideradressen of inloggegevens.
+
+De Docker-volumes en de gegevensmap van de tv-pc bevatten wel de echte providergegevens en beheerconfiguratie; deel die niet mee als broncode. `.gitignore` verwijdert niets dat eerder gecommit is, en beschermt niet tegen geheimen die je in een bronbestand schrijft. De Git-geschiedenis kan nog een oud lokaal repository-adres bevatten. Het bronarchief bevat die geschiedenis niet.
